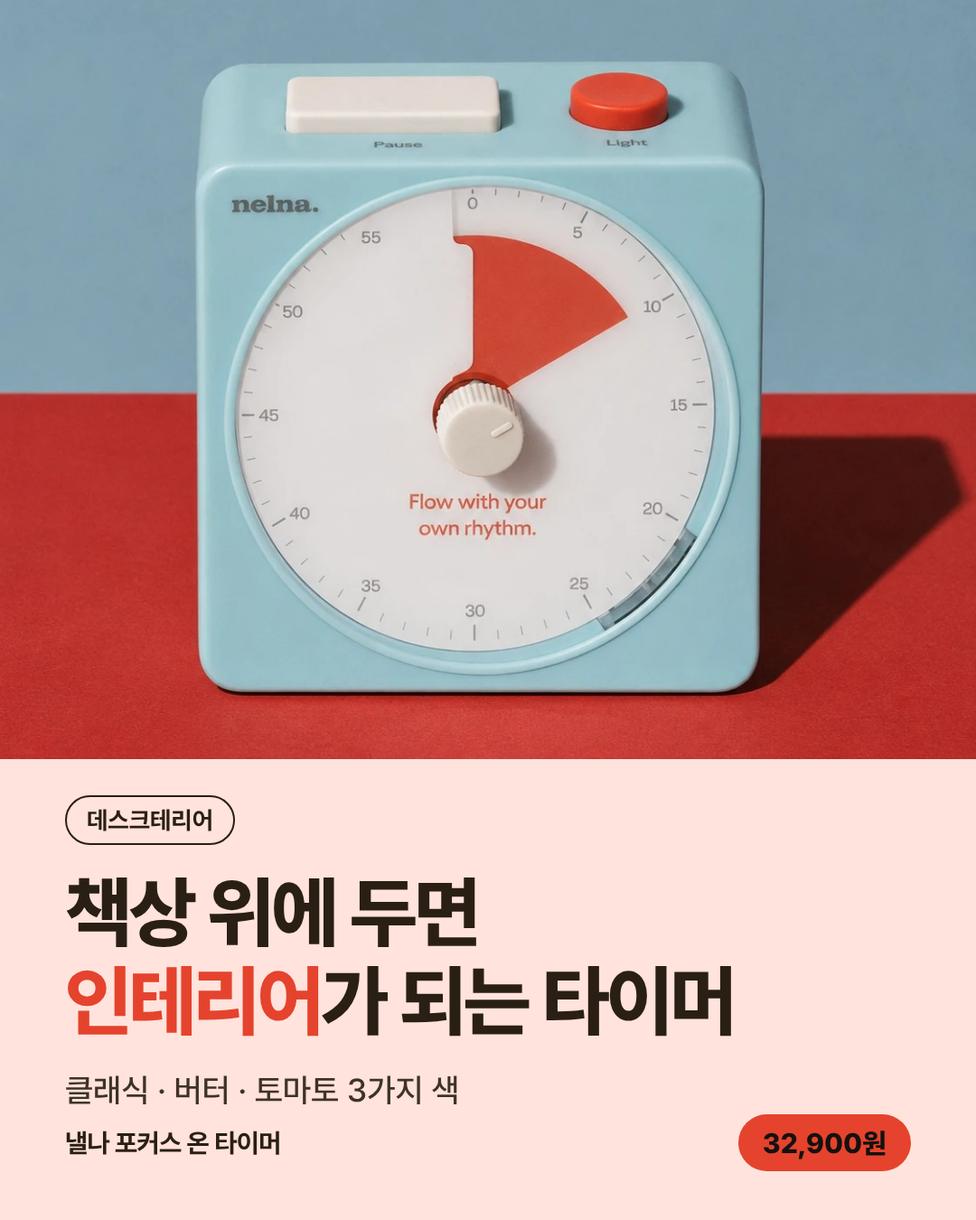
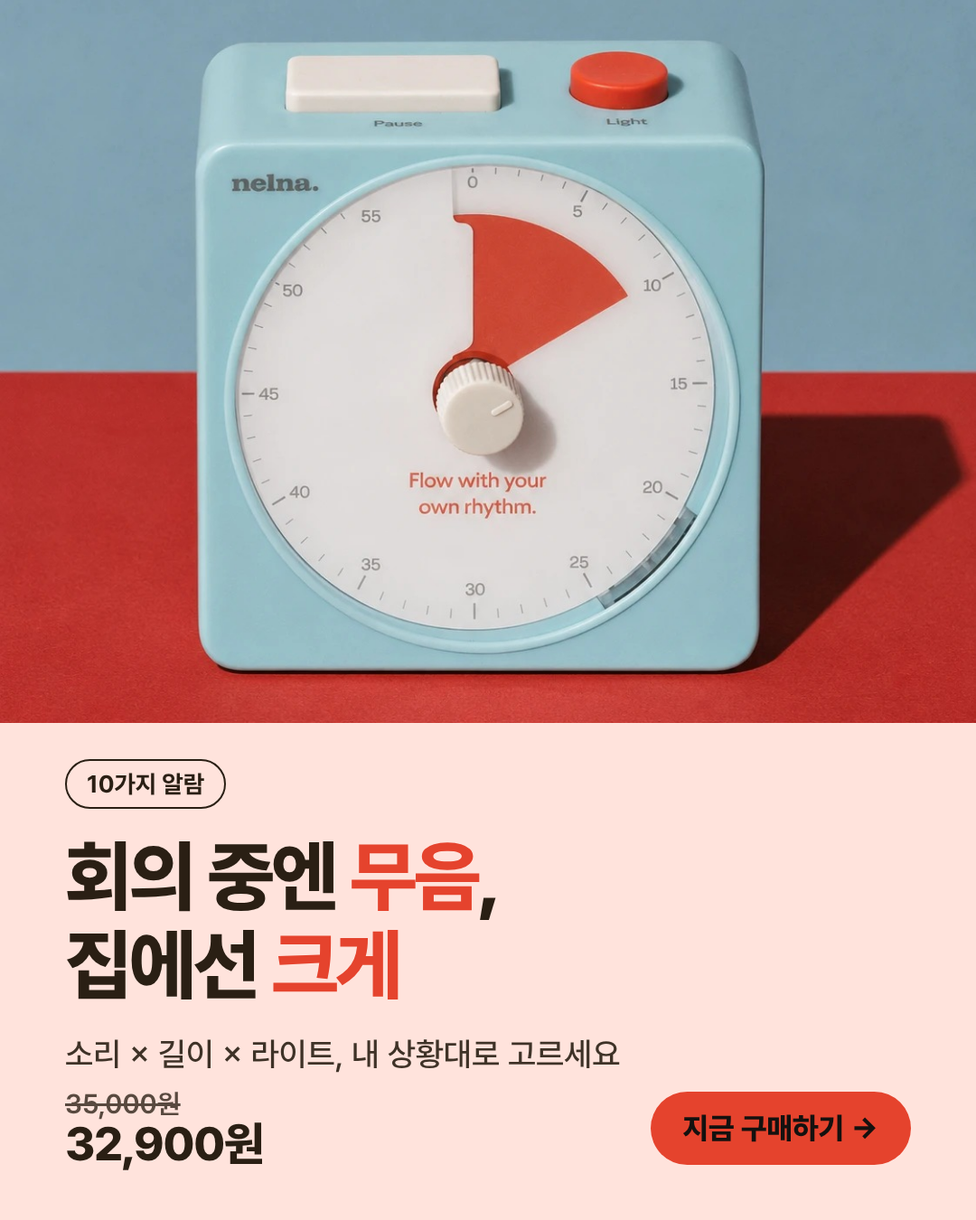
타이머 광고 전환형 재제작 (가격 앵커·구매 버튼·혜택 3줄 본문, 6종) + 클래식 사진
Claude-Session: https://claude.ai/code/session_01DXS2KyyyYLycy5YDWmXmGC

Changed region(s): [[0.0, 0.0311, 1.0, 0.9644]]

diff --git a/ad-creatives/contact-sheet.html b/ad-creatives/contact-sheet.html
@@ -6,4 +6,4 @@ section{margin-bottom:44px}h2{font-size:20px;margin:0 0 14px}h2 small{color:#888
 figure{margin:0;flex:none;width:300px}figure.s{width:190px}
 img{width:100%;border-radius:10px;display:block;box-shadow:0 2px 10px rgba(0,0,0,.12)}
 figcaption{font-size:12.5px;color:#555;margin-top:8px;line-height:1.45}
-</style></head><body><h1>낼나 광고 소재 컨택트시트</h1><p>피드 4:5 · 스토리 9:16 · 문구 상세는 AD-BRIEF.md</p><section><h2>낼나 포커스 온 타이머 <small>32,900원</small></h2><div class="g"><figure><img loading="lazy" src="out/01-timer_c1_feed.png"><figcaption><b>돌리면, 시작</b><br>사용 간편성 · 한 줄 훅 (우선 테스트)</figcaption></figure><figure><img loading="lazy" src="out/01-timer_c2_feed.png"><figcaption><b>충전기 말고, 건전지 하나</b><br>기능 소구(배터리) · 각주 필수</figcaption></figure><figure><img loading="lazy" src="out/01-timer_c3_feed.png"><figcaption><b>폰 말고, 타이머에게</b><br>문제 공감(폰 시간) → 용도 확장</figcaption></figure><figure><img loading="lazy" src="out/01-timer_c4_feed.png"><figcaption><b>인테리어가 되는 타이머</b><br>디자인 · 데스크테리어 + 알람/거치 스펙</figcaption></figure><figure><img loading="lazy" src="out/01-timer_t1_feed.png"><figcaption><b>사진 합성 t1</b><br>돌리면, 시작</figcaption></figure><figure><img loading="lazy" src="out/01-timer_t2_feed.png"><figcaption><b>사진 합성 t2</b><br>폰 말고 타이머에게 맡기세요</figcaption></figure><figure><img loading="lazy" src="out/01-timer_t3_feed.png"><figcaption><b>사진 합성 t3</b><br>충전기 말고, 건전지 하나</figcaption></figure><figure><img loading="lazy" src="out/01-timer_t4_feed.png"><figcaption><b>사진 합성 t4</b><br>책상 위에 두면 인테리어가 되는 타이머</figcaption></figure><figure class="s"><img loading="lazy" src="out/01-timer_c1_story.png"><figcaption>스토리/릴스 커버 (c1)</figcaption></figure></div></section><section><h2>낼나 무궁무진 거치대 <small>109,000원</small></h2><div class="g"><figure><img loading="lazy" src="out/02-stand_c1_feed.png"><figcaption><b>거치대, 이제 하나만</b><br>문제 공감(여러 개 사는 불편) → 올인원 해결</figcaption></figure><figure><img loading="lazy" src="out/02-stand_c2_feed.png"><figcaption><b>접으면 4.6mm</b><br>휴대성 수치 소구 · 비교 모델 표기 확인 필요</figcaption></figure><figure><img loading="lazy" src="out/02-stand_c3_feed.png"><figcaption><b>집에서 카페로, 가방 속 작업실</b><br>라이프스타일 · 4단계 각도</figcaption></figure><figure><img loading="lazy" src="out/02-stand_p1_feed.png"><figcaption><b>사진 합성 p1</b><br>집에서 카페로, 가방 속 작업 공간</figcaption></figure><figure><img loading="lazy" src="out/02-stand_p2_feed.png"><figcaption><b>사진 합성 p2</b><br>책 읽을 때도, 태블릿 쓸 때도, 노트북으로 일할 때도. 매번 다른 거치대가 필요했나요?</figcaption></figure><figure class="s"><img loading="lazy" src="out/02-stand_c1_story.png"><figcaption>스토리/릴스 커버 (c1)</figcaption></figure></div></section><section><h2>낼나 펜슬 아이패드용 <small>82,900원</small></h2><div class="g"><figure><img loading="lazy" src="out/03-pencil_c1_feed.png"><figcaption><b>연필 감성 10,000% 아이패드 펜슬</b><br>감성 훅(소리) · 디자인 차별화</figcaption></figure><figure><img loading="lazy" src="out/03-pencil_c2_feed.png"><figcaption><b>레드닷 수상, 3g 더 가벼운 펜슬</b><br>신뢰(수상) + 스펙 비교 · 근거 보관 필요</figcaption></figure><figure><img loading="lazy" src="out/03-pencil_c3_feed.png"><figcaption><b>1초 만에 깨어나는 펜슬</b><br>기능 소구 · 시험 근거 확인 필요</figcaption></figure><figure><img loading="lazy" src="out/03-pencil_p1_feed.png"><figcaption><b>사진 합성 p1</b><br>사각사각 소리가 들리는 것 같지 않나요?</figcaption></figure><figure><img loading="lazy" src="out/03-pencil_p2_feed.png"><figcaption><b>사진 합성 p2</b><br>10만 번 눌러도 끄떡없는 물리 버튼</figcaption></figure><figure class="s"><img loading="lazy" src="out/03-pencil_c1_story.png"><figcaption>스토리/릴스 커버 (c1)</figcaption></figure></div></section><section><h2>낼나 스크런치 케이블 세트 <small>38,900원</small></h2><div class="g"><figure><img loading="lazy" src="out/04-scrunchie_c1_feed.png"><figcaption><b>스트랩 하나로 끝</b><br>문제 공감(2가지 사고) → 1개로 해결</figcaption></figure><figure><img loading="lazy" src="out/04-scrunchie_c2_feed.png"><figcaption><b>케이블이 숨어있는 폰스트랩</b><br>디자인 소구</figcaption></figure><figure><img loading="lazy" src="out/04-scrunchie_c3_feed.png"><figcaption><b>60W 고속충전 폰스트랩</b><br>스펙 소구 · 각주 필수</figcaption></figure><figure><img loading="lazy" src="out/04-scrunchie_p1_feed.png"><figcaption><b>사진 합성 p1</b><br>또 떨어뜨렸어요. 또 충전선 놓고 나왔어요. 스트랩 하나로 끝</figcaption></figure><figure><img loading="lazy" src="out/04-scrunchie_p2_feed.png"><figcaption><b>사진 합성 p2</b><br>예쁘면서 충전까지 되는 폰 스트랩</figcaption></figure><figure class="s"><img loading="lazy" src="out/04-scrunchie_c1_story.png"><figcaption>스토리/릴스 커버 (c1)</figcaption></figure></div></section><section><h2>낼나 나다운 연력 2027 <small>19,500원</small></h2><div class="g"><figure><img loading="lazy" src="out/05-yeonryeok_c1_feed.png"><figcaption><b>1년이 한 장에, 항상 눈앞에</b><br>제품 컨셉 직관 전달</figcaption></figure><figure><img loading="lazy" src="out/05-yeonryeok_c2_feed.png"><figcaption><b>찍기만 해도 기록이에요</b><br>부담 없는 기록 톤 · 다이어리 포기 경험 공감</figcaption></figure><figure><img loading="lazy" src="out/05-yeonryeok_c3_feed.png"><figcaption><b>나다운 1년이 한눈에</b><br>연말 회고 영상/게시물용</figcaption></figure><figure><img loading="lazy" src="out/05-yeonryeok_p1_feed.png"><figcaption><b>사진 합성 p1</b><br>1년이 한 장에, 항상 눈앞에</figcaption></figure><figure><img loading="lazy" src="out/05-yeonryeok_p2_feed.png"><figcaption><b>사진 합성 p2</b><br>쓰기 귀찮은 날엔 콕, 찍기만 하세요. 그것도 기록이에요</figcaption></figure><figure class="s"><img loading="lazy" src="out/05-yeonryeok_c1_story.png"><figcaption>스토리/릴스 커버 (c1)</figcaption></figure></div></section><section><h2>낼나 2027 그랩&amp;스크랩 박스 <small>34,500원</small></h2><div class="g"><figure><img loading="lazy" src="out/06-grabscrap_c1_feed.png"><figcaption><b>올해의 끝, 내년의 시작</b><br>연말 감성 · 선물 소구</figcaption></figure><figure><img loading="lazy" src="out/06-grabscrap_c2_feed.png"><figcaption><b>나에게 보내는 타임캡슐 액자</b><br>경험 소구(개봉) · 반응 높을 훅</figcaption></figure><figure><img loading="lazy" src="out/06-grabscrap_c3_feed.png"><figcaption><b>추억이 벽 위 인테리어가 됩니다</b><br>인테리어 소구</figcaption></figure><figure><img loading="lazy" src="out/06-grabscrap_p1_feed.png"><figcaption><b>사진 합성 p1</b><br>올해의 끝을 붙잡고, 내년을 차곡차곡 쌓아가요</figcaption></figure><figure><img loading="lazy" src="out/06-grabscrap_p2_feed.png"><figcaption><b>사진 합성 p2</b><br>다짐은 봉인하고, 1년 뒤 연말에 열어보세요</figcaption></figure><figure class="s"><img loading="lazy" src="out/06-grabscrap_c1_story.png"><figcaption>스토리/릴스 커버 (c1)</figcaption></figure></div></section><section><h2>낼나 플레이온 키링 어댑터 <small>23,200원</small></h2><div class="g"><figure><img loading="lazy" src="out/07-playon_c1_feed.png"><figcaption><b>이거, 사실 충전기예요</b><br>반전 훅 · 소재 임팩트 최상 (우선 테스트)</figcaption></figure><figure><img loading="lazy" src="out/07-playon_c2_feed.png"><figcaption><b>충전기를 키링처럼</b><br>발상 전환</figcaption></figure><figure><img loading="lazy" src="out/07-playon_c3_feed.png"><figcaption><b>88g, 가방에 걸어두는 충전기</b><br>무게 소구 + 안전성 신뢰</figcaption></figure><figure><img loading="lazy" src="out/07-playon_p1_feed.png"><figcaption><b>사진 합성 p1</b><br>귀여운 MP3 플레이어인 줄 알았죠? 사실은 30W 충전기예요</figcaption></figure><figure><img loading="lazy" src="out/07-playon_p2_feed.png"><figcaption><b>사진 합성 p2</b><br>충전기는 왜 항상 가방 속에 있어야 할까요?</figcaption></figure><figure class="s"><img loading="lazy" src="out/07-playon_c1_story.png"><figcaption>스토리/릴스 커버 (c1)</figcaption></figure></div></section><section><h2>2027 낼나다이어리 <small>에센셜 16,900원 · 시그니처 19,900원</small></h2><div class="g"><figure><img loading="lazy" src="out/08-diary_c1_feed.png"><figcaption><b>계획은 늘 바뀌어요, 괜찮아요</b><br>수정 스트레스 공감 훅 (우선 테스트)</figcaption></figure><figure><img loading="lazy" src="out/08-diary_c2_feed.png"><figcaption><b>일정 아이콘 한 번이면</b><br>직장인 타깃 · 기능 소구 · 정확한 표현 필수</figcaption></figure><figure><img loading="lazy" src="out/08-diary_c3_feed.png"><figcaption><b>11월에 사도 15개월</b><br>시즌 타깃팅 (지금 구매 이유)</figcaption></figure><figure><img loading="lazy" src="out/08-diary_c4_feed.png"><figcaption><b>3개월마다 다시 시작해요</b><br>작심삼일 공감 · 버전 가격 병기</figcaption></figure><figure class="s"><img loading="lazy" src="out/08-diary_c1_story.png"><figcaption>스토리/릴스 커버 (c1)</figcaption></figure></div></section></body></html>
+</style></head><body><h1>낼나 광고 소재 컨택트시트</h1><p>피드 4:5 · 스토리 9:16 · 문구 상세는 AD-BRIEF.md</p><section><h2>낼나 포커스 온 타이머 <small>32,900원</small></h2><div class="g"><figure><img loading="lazy" src="out/01-timer_c1_feed.png"><figcaption><b>폰 대신 타이머 돌리세요</b><br>문제 공감 훅 → 해결 → 가격 앵커 (우선 테스트)</figcaption></figure><figure><img loading="lazy" src="out/01-timer_c2_feed.png"><figcaption><b>딱 25분만 돌려보세요</b><br>행동 유도(작게 시작) · 용도 확장</figcaption></figure><figure><img loading="lazy" src="out/01-timer_c3_feed.png"><figcaption><b>충전 없이 6개월 (하루 3시간 기준)</b><br>기능 소구(배터리) · 각주 필수</figcaption></figure><figure><img loading="lazy" src="out/01-timer_c4_feed.png"><figcaption><b>무음부터 크게까지 10가지 알람</b><br>상황별 맞춤 · 구체적 장면</figcaption></figure><figure><img loading="lazy" src="out/01-timer_c5_feed.png"><figcaption><b>3,000개 넘게 판매된 타이머</b><br>소셜 프루프 · 수치 집행 전 확인 필수</figcaption></figure><figure><img loading="lazy" src="out/01-timer_c6_feed.png"><figcaption><b>집 나간 집중력, 찾아드려요</b><br>브랜드 감성 슬로건 · 몰입 경험 (우선 테스트 후보)</figcaption></figure><figure><img loading="lazy" src="out/01-timer_t1_feed.png"><figcaption><b>사진 합성 t1</b><br>폰 잠깐 본다는 게 한 시간이 된 적 있다면</figcaption></figure><figure><img loading="lazy" src="out/01-timer_t2_feed.png"><figcaption><b>사진 합성 t2</b><br>딱 25분만 돌려보세요</figcaption></figure><figure><img loading="lazy" src="out/01-timer_t3_feed.png"><figcaption><b>사진 합성 t3</b><br>충전 안 해도 6개월</figcaption></figure><figure><img loading="lazy" src="out/01-timer_t4_feed.png"><figcaption><b>사진 합성 t4</b><br>회의 중엔 무음, 집에선 크게</figcaption></figure><figure><img loading="lazy" src="out/01-timer_t5_feed.png"><figcaption><b>사진 합성 t5</b><br>3,000개 넘게 판매된 타이머</figcaption></figure><figure><img loading="lazy" src="out/01-timer_t6_feed.png"><figcaption><b>사진 합성 t6</b><br>집 나간 집중력, 찾아드려요</figcaption></figure><figure class="s"><img loading="lazy" src="out/01-timer_c1_story.png"><figcaption>스토리/릴스 커버 (c1)</figcaption></figure></div></section><section><h2>낼나 무궁무진 거치대 <small>109,000원</small></h2><div class="g"><figure><img loading="lazy" src="out/02-stand_c1_feed.png"><figcaption><b>거치대, 이제 하나만</b><br>문제 공감(여러 개 사는 불편) → 올인원 해결</figcaption></figure><figure><img loading="lazy" src="out/02-stand_c2_feed.png"><figcaption><b>접으면 4.6mm</b><br>휴대성 수치 소구 · 비교 모델 표기 확인 필요</figcaption></figure><figure><img loading="lazy" src="out/02-stand_c3_feed.png"><figcaption><b>집에서 카페로, 가방 속 작업실</b><br>라이프스타일 · 4단계 각도</figcaption></figure><figure><img loading="lazy" src="out/02-stand_p1_feed.png"><figcaption><b>사진 합성 p1</b><br>집에서 카페로, 가방 속 작업 공간</figcaption></figure><figure><img loading="lazy" src="out/02-stand_p2_feed.png"><figcaption><b>사진 합성 p2</b><br>책 읽을 때도, 태블릿 쓸 때도, 노트북으로 일할 때도. 매번 다른 거치대가 필요했나요?</figcaption></figure><figure class="s"><img loading="lazy" src="out/02-stand_c1_story.png"><figcaption>스토리/릴스 커버 (c1)</figcaption></figure></div></section><section><h2>낼나 펜슬 아이패드용 <small>82,900원</small></h2><div class="g"><figure><img loading="lazy" src="out/03-pencil_c1_feed.png"><figcaption><b>연필 감성 10,000% 아이패드 펜슬</b><br>감성 훅(소리) · 디자인 차별화</figcaption></figure><figure><img loading="lazy" src="out/03-pencil_c2_feed.png"><figcaption><b>레드닷 수상, 3g 더 가벼운 펜슬</b><br>신뢰(수상) + 스펙 비교 · 근거 보관 필요</figcaption></figure><figure><img loading="lazy" src="out/03-pencil_c3_feed.png"><figcaption><b>1초 만에 깨어나는 펜슬</b><br>기능 소구 · 시험 근거 확인 필요</figcaption></figure><figure><img loading="lazy" src="out/03-pencil_p1_feed.png"><figcaption><b>사진 합성 p1</b><br>사각사각 소리가 들리는 것 같지 않나요?</figcaption></figure><figure><img loading="lazy" src="out/03-pencil_p2_feed.png"><figcaption><b>사진 합성 p2</b><br>10만 번 눌러도 끄떡없는 물리 버튼</figcaption></figure><figure class="s"><img loading="lazy" src="out/03-pencil_c1_story.png"><figcaption>스토리/릴스 커버 (c1)</figcaption></figure></div></section><section><h2>낼나 스크런치 케이블 세트 <small>38,900원</small></h2><div class="g"><figure><img loading="lazy" src="out/04-scrunchie_c1_feed.png"><figcaption><b>스트랩 하나로 끝</b><br>문제 공감(2가지 사고) → 1개로 해결</figcaption></figure><figure><img loading="lazy" src="out/04-scrunchie_c2_feed.png"><figcaption><b>케이블이 숨어있는 폰스트랩</b><br>디자인 소구</figcaption></figure><figure><img loading="lazy" src="out/04-scrunchie_c3_feed.png"><figcaption><b>60W 고속충전 폰스트랩</b><br>스펙 소구 · 각주 필수</figcaption></figure><figure><img loading="lazy" src="out/04-scrunchie_p1_feed.png"><figcaption><b>사진 합성 p1</b><br>또 떨어뜨렸어요. 또 충전선 놓고 나왔어요. 스트랩 하나로 끝</figcaption></figure><figure><img loading="lazy" src="out/04-scrunchie_p2_feed.png"><figcaption><b>사진 합성 p2</b><br>예쁘면서 충전까지 되는 폰 스트랩</figcaption></figure><figure class="s"><img loading="lazy" src="out/04-scrunchie_c1_story.png"><figcaption>스토리/릴스 커버 (c1)</figcaption></figure></div></section><section><h2>낼나 나다운 연력 2027 <small>19,500원</small></h2><div class="g"><figure><img loading="lazy" src="out/05-yeonryeok_c1_feed.png"><figcaption><b>1년이 한 장에, 항상 눈앞에</b><br>제품 컨셉 직관 전달</figcaption></figure><figure><img loading="lazy" src="out/05-yeonryeok_c2_feed.png"><figcaption><b>찍기만 해도 기록이에요</b><br>부담 없는 기록 톤 · 다이어리 포기 경험 공감</figcaption></figure><figure><img loading="lazy" src="out/05-yeonryeok_c3_feed.png"><figcaption><b>나다운 1년이 한눈에</b><br>연말 회고 영상/게시물용</figcaption></figure><figure><img loading="lazy" src="out/05-yeonryeok_p1_feed.png"><figcaption><b>사진 합성 p1</b><br>1년이 한 장에, 항상 눈앞에</figcaption></figure><figure><img loading="lazy" src="out/05-yeonryeok_p2_feed.png"><figcaption><b>사진 합성 p2</b><br>쓰기 귀찮은 날엔 콕, 찍기만 하세요. 그것도 기록이에요</figcaption></figure><figure class="s"><img loading="lazy" src="out/05-yeonryeok_c1_story.png"><figcaption>스토리/릴스 커버 (c1)</figcaption></figure></div></section><section><h2>낼나 2027 그랩&amp;스크랩 박스 <small>34,500원</small></h2><div class="g"><figure><img loading="lazy" src="out/06-grabscrap_c1_feed.png"><figcaption><b>올해의 끝, 내년의 시작</b><br>연말 감성 · 선물 소구</figcaption></figure><figure><img loading="lazy" src="out/06-grabscrap_c2_feed.png"><figcaption><b>나에게 보내는 타임캡슐 액자</b><br>경험 소구(개봉) · 반응 높을 훅</figcaption></figure><figure><img loading="lazy" src="out/06-grabscrap_c3_feed.png"><figcaption><b>추억이 벽 위 인테리어가 됩니다</b><br>인테리어 소구</figcaption></figure><figure><img loading="lazy" src="out/06-grabscrap_p1_feed.png"><figcaption><b>사진 합성 p1</b><br>올해의 끝을 붙잡고, 내년을 차곡차곡 쌓아가요</figcaption></figure><figure><img loading="lazy" src="out/06-grabscrap_p2_feed.png"><figcaption><b>사진 합성 p2</b><br>다짐은 봉인하고, 1년 뒤 연말에 열어보세요</figcaption></figure><figure class="s"><img loading="lazy" src="out/06-grabscrap_c1_story.png"><figcaption>스토리/릴스 커버 (c1)</figcaption></figure></div></section><section><h2>낼나 플레이온 키링 어댑터 <small>23,200원</small></h2><div class="g"><figure><img loading="lazy" src="out/07-playon_c1_feed.png"><figcaption><b>이거, 사실 충전기예요</b><br>반전 훅 · 소재 임팩트 최상 (우선 테스트)</figcaption></figure><figure><img loading="lazy" src="out/07-playon_c2_feed.png"><figcaption><b>충전기를 키링처럼</b><br>발상 전환</figcaption></figure><figure><img loading="lazy" src="out/07-playon_c3_feed.png"><figcaption><b>88g, 가방에 걸어두는 충전기</b><br>무게 소구 + 안전성 신뢰</figcaption></figure><figure><img loading="lazy" src="out/07-playon_p1_feed.png"><figcaption><b>사진 합성 p1</b><br>귀여운 MP3 플레이어인 줄 알았죠? 사실은 30W 충전기예요</figcaption></figure><figure><img loading="lazy" src="out/07-playon_p2_feed.png"><figcaption><b>사진 합성 p2</b><br>충전기는 왜 항상 가방 속에 있어야 할까요?</figcaption></figure><figure class="s"><img loading="lazy" src="out/07-playon_c1_story.png"><figcaption>스토리/릴스 커버 (c1)</figcaption></figure></div></section><section><h2>2027 낼나다이어리 <small>에센셜 16,900원 · 시그니처 19,900원</small></h2><div class="g"><figure><img loading="lazy" src="out/08-diary_c1_feed.png"><figcaption><b>계획은 늘 바뀌어요, 괜찮아요</b><br>수정 스트레스 공감 훅 (우선 테스트)</figcaption></figure><figure><img loading="lazy" src="out/08-diary_c2_feed.png"><figcaption><b>일정 아이콘 한 번이면</b><br>직장인 타깃 · 기능 소구 · 정확한 표현 필수</figcaption></figure><figure><img loading="lazy" src="out/08-diary_c3_feed.png"><figcaption><b>11월에 사도 15개월</b><br>시즌 타깃팅 (지금 구매 이유)</figcaption></figure><figure><img loading="lazy" src="out/08-diary_c4_feed.png"><figcaption><b>3개월마다 다시 시작해요</b><br>작심삼일 공감 · 버전 가격 병기</figcaption></figure><figure class="s"><img loading="lazy" src="out/08-diary_c1_story.png"><figcaption>스토리/릴스 커버 (c1)</figcaption></figure></div></section></body></html>

diff --git a/ad-creatives/AD-BRIEF.md b/ad-creatives/AD-BRIEF.md
@@ -1,6 +1,6 @@
 # 낼나 광고 소재 패키지 (2026-11)
 
-8개 제품 · 글자 중심 소재 25종 + 제품 사진 합성 소재 16종(피드 4:5) + 스토리/릴스 커버(9:16) + 15~20초 영상 스크립트 8개.
+8개 제품 · 글자 중심 소재 25종 + 제품 사진 합성 소재 18종(피드 4:5) + 스토리/릴스 커버(9:16) + 15~20초 영상 스크립트 8개.
 
 글자 중심 소재(`*_c*`)는 제품 사진 없이 쓰는 버전이고, 사진 합성 소재(`*_p*`)는 Google Drive의 제품 사진(셀렉 보정본 · 상세페이지 썸네일)을 넣은 버전입니다. **2027 낼나다이어리는 쓸 수 있는 제품 이미지를 찾지 못해** 글자 중심 소재만 있습니다. 로고는 텍스트(“낼나”)로 대체했으니 필요하면 교체하세요.
 
@@ -27,66 +27,127 @@
 
 ### 집행 전 확인
 
-- “6개월”은 **하루 3시간 사용 기준**이라 소재에 각주를 꼭 넣었습니다. 각주 없이 “6개월”만 쓰지 마세요.
-- 건전지 포함 여부, 건전지 수량이 상세페이지 요약에 없습니다. “충전 필요 없음”까지만 말하고 “건전지 포함”은 확인 후 사용하세요.
-- “폰 말고 타이머에게” 소재는 사용 예시(SNS 시간 제한 등)를 보여주는 표현입니다. 집중력 향상 같은 효과를 보장하는 문구는 쓰지 않았습니다.
-- “디자인 등록 완료”를 광고에 쓰려면 등록번호 확인이 필요합니다(이번 소재에는 넣지 않았습니다).
-- “10가지 알람”은 소리(무음/작게/크게) × 길이(3초/30초) × 라이트 조합 수치입니다. 숫자를 바꿀 땐 상세페이지와 맞추세요.
+- **가격**: 현재 imweb 기준 정가 35,000원 → 판매가 32,900원(기간할인, 2026-11-17 수정)입니다. 소재의 취소선 가격은 이 기간할인에 맞춘 것이라 **할인이 끝나면 소재를 내리거나 가격을 바꿔야 합니다.**
+- **판매 수량 3,000개+**: 자사몰 최근 1년(취소·반품 제외) “낼나 포커스 온 타이머” 주문 라인 수량 합이 약 3,457개입니다. 세트 상품 라인이 섞였을 수 있어 **3,000개 이상**으로만 썼고, 집행 전에 단품 기준 수량을 확인하세요. 수치가 바뀌면 c5/t5 문구를 갱신하세요.
+- “6개월”은 **하루 3시간 사용 기준**이라 각주를 넣었습니다. 각주 없이 “6개월”만 쓰지 마세요. 건전지 포함 여부는 상세페이지에 없어 “충전 필요 없음”까지만 말했습니다.
+- “25분” “한 시간이 된 적 있다면”은 공감을 위한 예시입니다. 집중력 향상 같은 효과를 보장하는 문구는 쓰지 않았습니다.
+- “집 나간 집중력, 찾아드려요 / 몰입의 순간”은 브랜드 감성 문구입니다. 이 소재에 “집중력이 N% 올라간다” 같은 효과·수치 문구를 덧붙이지 마세요.
+- **클래식(그린) 사진의 일시정지 버튼 라벨이 “Pausa”로 인쇄돼 있습니다**(버터·토마토 사진은 “Pause”). 실제 제품 표기와 다르면 이 사진은 쓰지 말고 교체하세요.
 
 ### 소재
 
-#### 01-timer_c1 · statement · 사용 간편성 · 한 줄 훅 (우선 테스트)
+#### 01-timer_c1 · chat · 문제 공감 훅 → 해결 → 가격 앵커 (우선 테스트)
 
 ![01-timer_c1](out/01-timer_c1_feed.png)
 
-- **이미지 문구**: 돌리면, 시작
-- **메타 헤드라인**: 돌리면, 시작
-- **메타 설명**: 다이얼 한 번이면 자동 카운트다운
+- **이미지 문구**: 폰 잠깐 본다는 게 한 시간이 된 적 있다면 / 다이얼부터 돌리세요
+- **메타 헤드라인**: 폰 대신 타이머 돌리세요
+- **메타 설명**: 정가 35,000원 → 지금 32,900원
 - **CTA 버튼**: 지금 쇼핑하기
 - **본문**:
 
-  > 공부할 때도, 회의할 때도, 잠깐 쉴 때도.
-  > 다이얼만 돌리면 바로 카운트다운이 시작돼요. 클래식·버터·토마토, 책상 위에 두면 인테리어까지.
+  > 폰 잠깐 본다는 게 한 시간이 된 적 있다면, 타이머부터 돌려보세요.
+  > ✔ 다이얼만 돌리면 바로 카운트다운
+  > ✔ 무음 · 작게 · 크게, 상황 따라 고르는 알람
+  > ✔ 충전 없이 AAA건전지로 (하루 3시간 써도 6개월*)
+  > 
+  > 지금 32,900원 (정가 35,000원)
+  > 👉 지금 바로 확인하기
+  > * 하루 3시간 사용 기준
 
-#### 01-timer_c2 · stat · 기능 소구(배터리) · 각주 필수
+#### 01-timer_c2 · statement · 행동 유도(작게 시작) · 용도 확장
 
 ![01-timer_c2](out/01-timer_c2_feed.png)
 
-- **이미지 문구**: 충전기 말고, 건전지 하나
-- **메타 헤드라인**: 충전기 말고, 건전지 하나
-- **메타 설명**: 하루 3시간 사용 기준 6개월
+- **이미지 문구**: 딱 25분만 돌려보세요
+- **메타 헤드라인**: 딱 25분만 돌려보세요
+- **메타 설명**: 다이얼 한 번이면 시작 · 32,900원
 - **CTA 버튼**: 지금 쇼핑하기
 - **본문**:
 
-  > 책상 위 타이머까지 충전해야 한다면 너무 번거롭잖아요.
-  > AAA건전지 방식이라 충전 없이 쓰고, 하루 3시간씩 써도 6개월을 씁니다.
-  > * 하루 3시간 사용 기준
+  > 시작이 제일 어렵다면 딱 25분만 돌려보세요.
+  > ✔ 다이얼 한 번에 자동 카운트다운
+  > ✔ 공부 · 회의 · 청소 · SNS 시간 제한까지
+  > ✔ 클래식 · 버터 · 토마토, 책상 위에 두면 인테리어
+  > 
+  > 지금 32,900원 (정가 35,000원)
+  > 👉 색상 고르러 가기
 
-#### 01-timer_c3 · chat · 문제 공감(폰 시간) → 용도 확장
+#### 01-timer_c3 · stat · 기능 소구(배터리) · 각주 필수
 
 ![01-timer_c3](out/01-timer_c3_feed.png)
 
-- **이미지 문구**: 공부할 때도, 회의할 때도, 쉴 때도. / 폰 말고 타이머에게 맡기세요
-- **메타 헤드라인**: 폰 말고, 타이머에게
-- **메타 설명**: 공부·회의·휴식·SNS 시간 제한
-- **CTA 버튼**: 더 알아보기
-- **본문**:
-
-  > 스마트폰 잠깐 본다는 게 한 시간이 되는 날, 있죠?
-  > 시간 관리는 폰 말고 타이머에게 맡기세요. 공부, 회의, 휴식, SNS 시간 제한까지 쓰임이 다양해요.
-
-#### 01-timer_c4 · list · 디자인 · 데스크테리어 + 알람/거치 스펙
-
-![01-timer_c4](out/01-timer_c4_feed.png)
-
-- **이미지 문구**: 책상 위에 두면 인테리어가 되는 타이머
-- **메타 헤드라인**: 인테리어가 되는 타이머
-- **메타 설명**: 3색 · 10가지 알람 · 4가지 거치
+- **이미지 문구**: 충전 안 해도 이만큼
+- **메타 헤드라인**: 충전 없이 6개월 (하루 3시간 기준)
+- **메타 설명**: 정가 35,000원 → 지금 32,900원
 - **CTA 버튼**: 지금 쇼핑하기
 - **본문**:
 
-  > 책상 위에 두면 인테리어가 되는 타이머.
-  > 클래식·버터·토마토 3가지 색, 무음부터 크게까지 10가지 알람, 스탠드·스탠드바·후크고리·마그넷 4가지 거치 방식으로 어디든 두세요.
+  > 충전 깜빡해서 꺼져 있던 타이머, 이제 그만.
+  > ✔ AAA건전지 방식이라 충전이 필요 없어요
+  > ✔ 하루 3시간 써도 6개월*
+  > ✔ 다이얼 돌리면 바로 시작
+  > 
+  > 지금 32,900원 (정가 35,000원)
+  > 👉 지금 바로 확인하기
+  > * 하루 3시간 사용 기준
+
+#### 01-timer_c4 · list · 상황별 맞춤 · 구체적 장면
+
+![01-timer_c4](out/01-timer_c4_feed.png)
+
+- **이미지 문구**: 회의 중엔 무음, 집에선 크게
+- **메타 헤드라인**: 무음부터 크게까지 10가지 알람
+- **메타 설명**: 정가 35,000원 → 지금 32,900원
+- **CTA 버튼**: 더 알아보기
+- **본문**:
+
+  > 회의 중엔 무음, 집에선 크게, 어두운 밤엔 라이트만.
+  > 소리 × 길이 × 라이트 조합으로 상황과 성향에 맞게 고르는 10가지 알람.
+  > ✔ 다이얼 한 번이면 시작
+  > ✔ 스탠드 · 스탠드바 · 후크고리 · 마그넷 4가지 거치
+  > 
+  > 지금 32,900원 (정가 35,000원)
+  > 👉 지금 바로 확인하기
+
+#### 01-timer_c5 · stat · 소셜 프루프 · 수치 집행 전 확인 필수
+
+![01-timer_c5](out/01-timer_c5_feed.png)
+
+- **이미지 문구**: 지금까지 이만큼 판매됐어요
+- **메타 헤드라인**: 3,000개 넘게 판매된 타이머
+- **메타 설명**: 정가 35,000원 → 지금 32,900원
+- **CTA 버튼**: 지금 쇼핑하기
+- **본문**:
+
+  > 낼나 자사몰에서 최근 1년간 3,000개 넘게 판매된 포커스 온 타이머.
+  > ✔ 다이얼 한 번이면 자동 카운트다운
+  > ✔ 충전 없이 AAA건전지로
+  > ✔ 클래식 · 버터 · 토마토 3색
+  > 
+  > 지금 32,900원 (정가 35,000원)
+  > 👉 지금 바로 확인하기
+  > * 낼나 자사몰 최근 1년 판매 수량 기준
+
+#### 01-timer_c6 · statement · 브랜드 감성 슬로건 · 몰입 경험 (우선 테스트 후보)
+
+![01-timer_c6](out/01-timer_c6_feed.png)
+
+- **이미지 문구**: 집 나간 집중력, 찾아드려요
+- **메타 헤드라인**: 집 나간 집중력, 찾아드려요
+- **메타 설명**: 몰입의 순간을 경험해 보세요 · 32,900원
+- **CTA 버튼**: 지금 쇼핑하기
+- **본문**:
+
+  > 집 나간 집중력, 포커스 온 타이머가 찾아드려요.
+  > 다이얼을 돌리는 순간 시작되는 카운트다운, 몰입의 순간을 경험해 보세요.
+  > ✔ 다이얼만 돌리면 자동 카운트다운
+  > ✔ 무음 · 작게 · 크게, 내 성향대로 고르는 알람
+  > ✔ 충전 없이 AAA건전지로 (하루 3시간 써도 6개월*)
+  > 
+  > 지금 32,900원 (정가 35,000원)
+  > 👉 집중력 찾으러 가기
+  > * 하루 3시간 사용 기준
 
 ### 제품 사진 합성 시안
 
@@ -96,24 +157,32 @@
 
 ![01-timer_t2](out/01-timer_t2_feed.png)
 
-- 01-timer_t2 · 본문·헤드라인·CTA는 **c3** 와 동일 · 스토리/릴스 커버 있음
+- 01-timer_t2 · 본문·헤드라인·CTA는 **c2** 와 동일 · 스토리/릴스 커버 있음
 
 ![01-timer_t3](out/01-timer_t3_feed.png)
 
-- 01-timer_t3 · 본문·헤드라인·CTA는 **c2** 와 동일
+- 01-timer_t3 · 본문·헤드라인·CTA는 **c3** 와 동일
 
 ![01-timer_t4](out/01-timer_t4_feed.png)
 
 - 01-timer_t4 · 본문·헤드라인·CTA는 **c4** 와 동일
 
-### 영상 스크립트 (15초 · 9:16 릴스)
+![01-timer_t5](out/01-timer_t5_feed.png)
+
+- 01-timer_t5 · 본문·헤드라인·CTA는 **c5** 와 동일 · 스토리/릴스 커버 있음
+
+![01-timer_t6](out/01-timer_t6_feed.png)
+
+- 01-timer_t6 · 본문·헤드라인·CTA는 **c6** 와 동일 · 스토리/릴스 커버 있음
+
+### 영상 스크립트 (15초 · 9:16 릴스 (전환형))
 
 | 구간 | 내용 |
 |---|---|
-| 0–3초 | [훅] 책상 위에서 폰 화면을 스크롤하다가, 손이 타이머 다이얼을 돌림. 자막 “폰 말고, 타이머에게” |
-| 3–8초 | [시연] 다이얼을 돌리면 자동 카운트다운 시작. 자막 “돌리면, 시작”. 알람 무음 / 작게 / 크게, 라이트 on/off 클로즈업 |
-| 8–13초 | [쓰임] 공부 · 회의 · 휴식 장면 컷. 스탠드 · 스탠드바 · 후크고리 · 마그넷으로 여기저기 거치. 자막 “책상 위에 두면 인테리어” |
-| 13–15초 | [CTA] 클래식 · 버터 · 토마토 3색 나란히 + 32,900원 + 자막 “충전기 말고 건전지 하나 (하루 3시간 기준 6개월)” |
+| 0–3초 | [훅] 소파에서 폰을 보던 손이 멈추고 시계가 한 시간 지나 있음. 자막 “폰 잠깐 본다는 게 한 시간…” |
+| 3–7초 | [해결] 책상 위 타이머 다이얼을 돌림 → 자동 카운트다운 시작. 자막 “딱 25분만 돌려보세요” |
+| 7–12초 | [혜택 3개] 자막이 하나씩: “무음/작게/크게 알람” → “충전 없이 건전지로 (하루 3시간 기준 6개월)” → “클래식·버터·토마토” |
+| 12–15초 | [오퍼] 3색 나란히 + 자막 “정가 35,000원 → 32,900원” + “지금 구매하기”. 마지막 컷에 “자사몰 3,000개+ 판매” 배지 |
 
 ---
 
